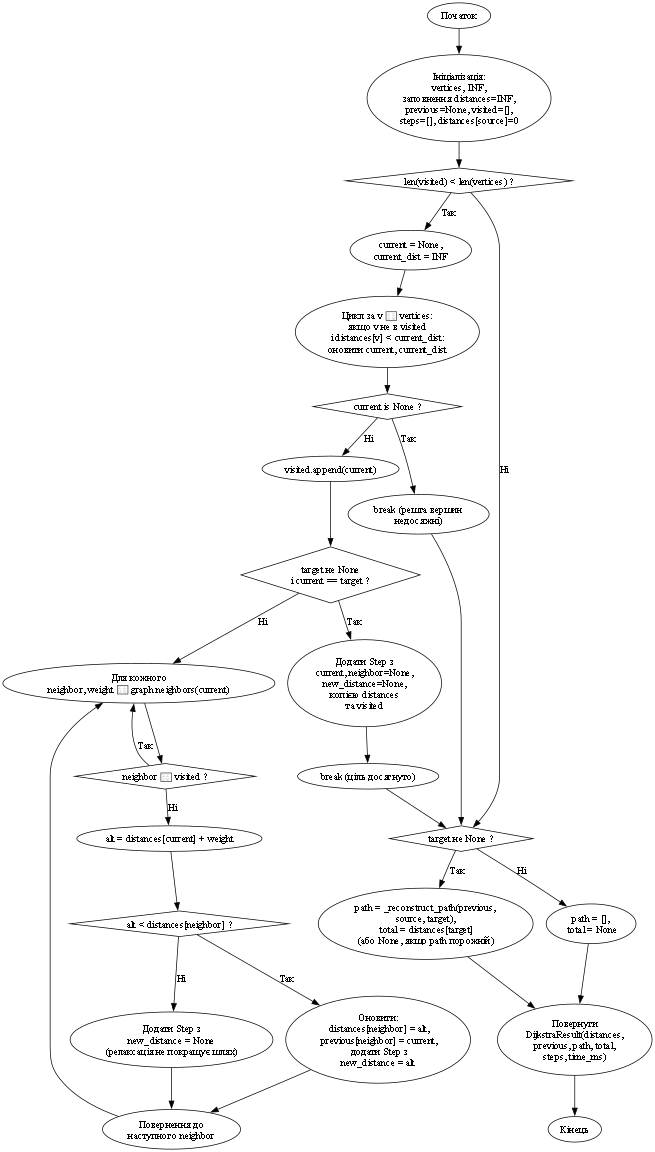
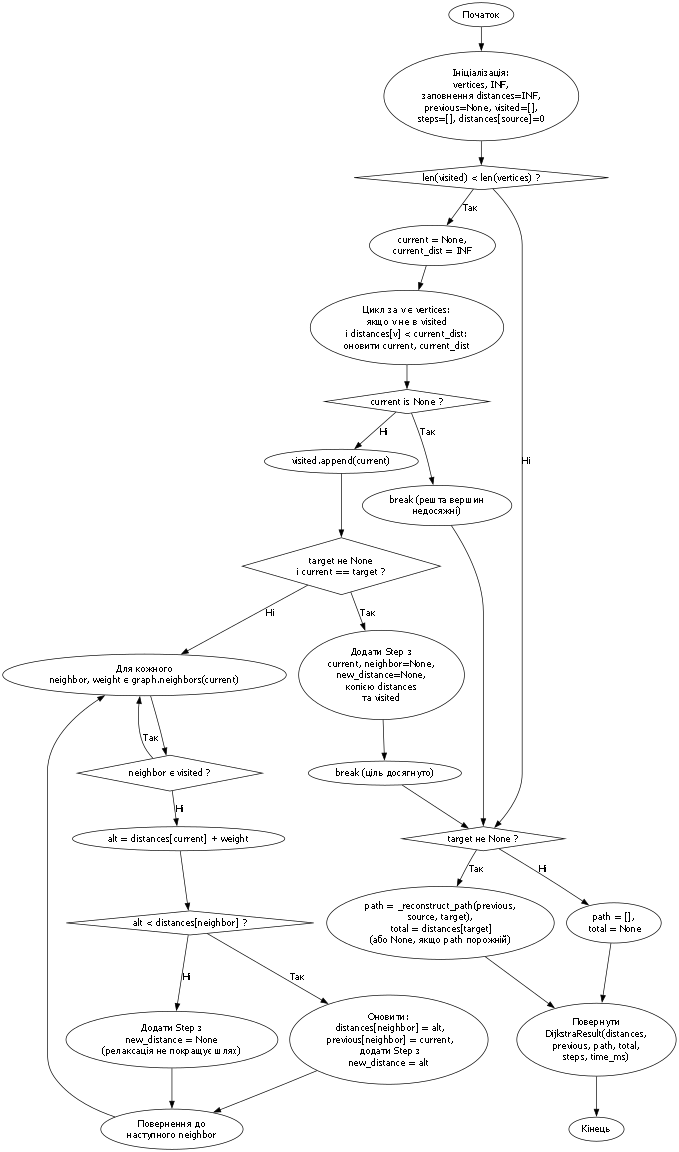
Minor flowchart (Dijkstra) fix of font

diff --git a/scheme_dijkstra.py b/scheme_dijkstra.py
@@ -4,6 +4,10 @@ from graphviz import Digraph
 dot = Digraph('Dijkstra_Flow', format='png')
 dot.attr(rankdir='TB', size='8,12')
 
+dot.attr('graph', fontname='DejaVu Sans')
+dot.attr('node',  fontname='DejaVu Sans')
+dot.attr('edge',  fontname='DejaVu Sans')
+
 # Вузли
 dot.node('A', 'Початок', shape='oval')
 
